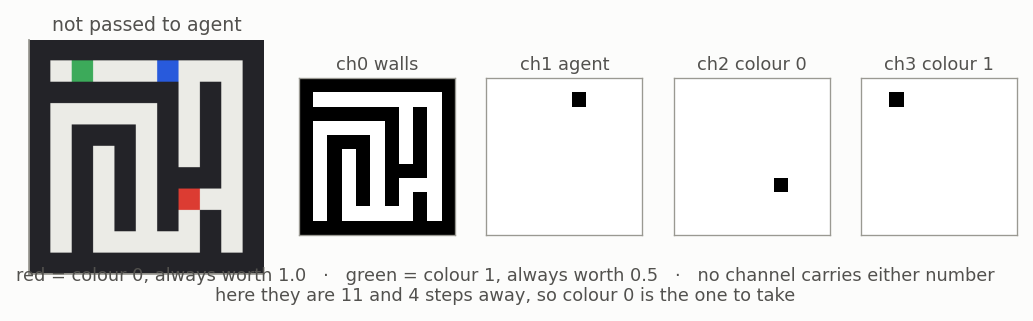
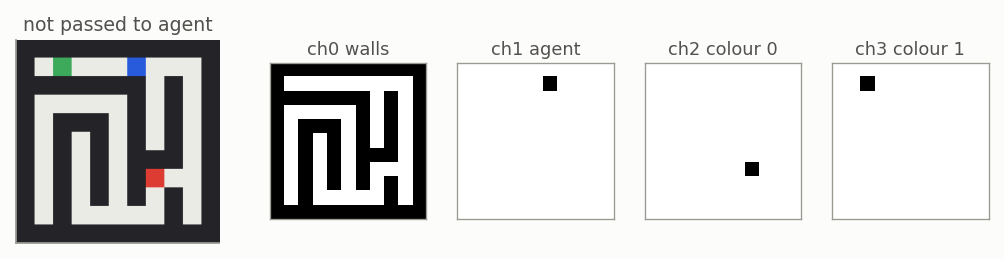
Move fig9's values and distances into the caption
The two lines under the panels ran the full width of the figure and collided
with the maze, which is the widest panel and the one they described. There is no
room for them without shrinking the maze below legibility, and they were prose
about the setup rather than anything read off the plot -- so the caption is where
they belong.

The values and distances are still computed and now printed at render time, so
regenerating the figure says whether the caption still describes the level it
draws rather than leaving that to be noticed later.

diff --git a/figures/make_figures.py b/figures/make_figures.py
@@ -152,7 +152,7 @@ def fig_no_value_task():
     enc = ObservationEncoder(max_size=11, n_features=2, value_encoding="none")
     obs = enc.encode(level, level.agent_start)
 
-    fig = plt.figure(figsize=(8.0, 1.9))
+    fig = plt.figure(figsize=(8.0, 1.65))
     gs = fig.add_gridspec(1, 5, width_ratios=[1.55, 1, 1, 1, 1], wspace=0.18)
 
     ax = fig.add_subplot(gs[0])
@@ -172,13 +172,12 @@ def fig_no_value_task():
             sp.set_color(MUTED)
             sp.set_linewidth(0.6)
 
-    fig.text(
-        0.5, 0.02,
-        f"red = colour 0, always worth {vals[0]:.1f}   ·   green = colour 1, always worth {vals[1]:.1f}   ·   "
-        f"no channel carries either number\n"
-        f"here they are {d[0]} and {d[1]} steps away, so colour {best} is the one to take",
-        ha="center", fontsize=8, color=INK2,
-    )
+    # Everything about the values and distances belongs in the caption rather
+    # than on the figure: there is no room for it under the panels without it
+    # colliding with the maze, and it is prose rather than data. Printed here so
+    # that regenerating the figure shows whether the caption still holds.
+    print(f"  fig9 caption check: colour 0 worth {vals[0]:.1f} at {d[0]} steps, "
+          f"colour 1 worth {vals[1]:.1f} at {d[1]} steps, take colour {best}")
     save(fig, "fig9_no_value_task")
 
 
